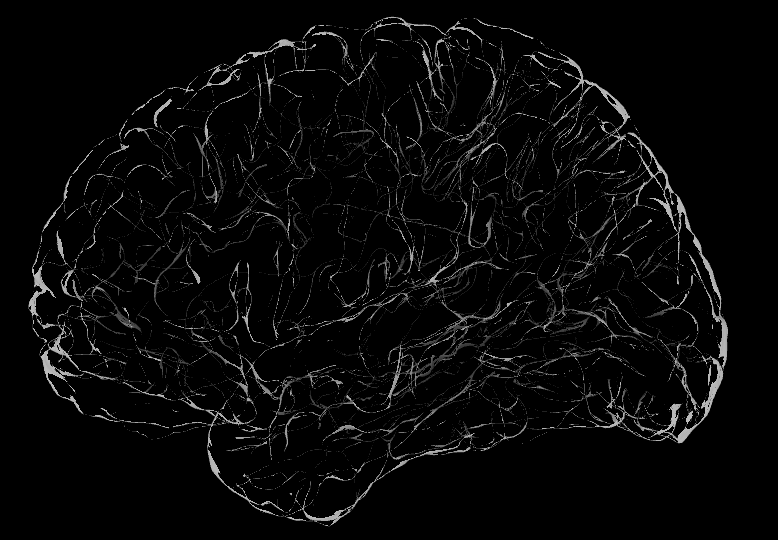
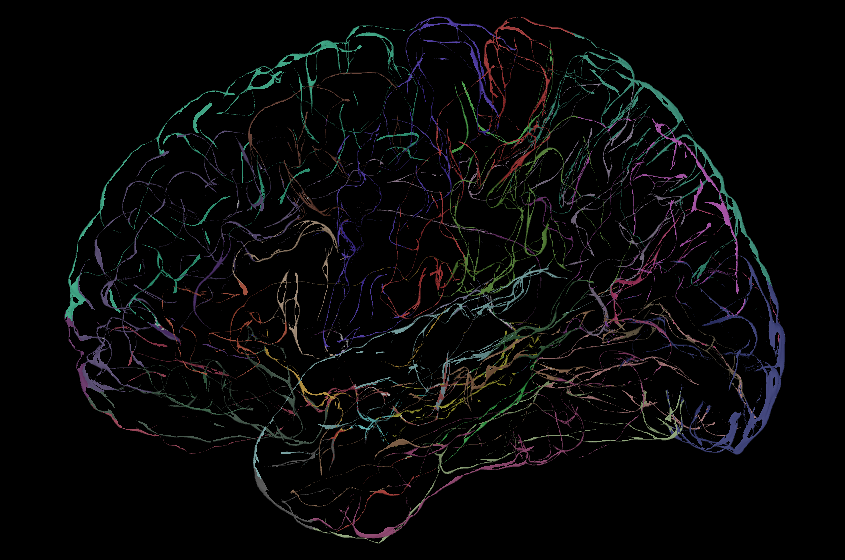
refine changes (css and reshot particle base images

Changed region(s): [[0.0308, 0.0296, 0.9563, 0.9778]]

diff --git a/assets/js/particle.js b/assets/js/particle.js
@@ -118,7 +118,7 @@ r.k._gsDefine("easing.Back",["easing.Ease"],function(){var t,e,n,i,o=r.k.GreenSo
  * 
  * @author: Jack Doyle, jack@greensock.com
  **/
-var F=i;F._autoActivated=[f,p,o,a,E,s,l,P,L,R,C,O,I,D,N,z,k]},function(t,e){t.exports="// @author brunoimbrizi / http://brunoimbrizi.com\n\nprecision highp float;\n#define GLSLIFY 1\n\nuniform sampler2D uTexture;\n\nvarying vec2 vPUv;\nvarying vec2 vUv;\n\nvoid main() {\n\tvec4 color = vec4(0.0);\n\tvec2 uv = vUv;\n\tvec2 puv = vPUv;\n\n\t// pixel color\n\tvec4 colA = texture2D(uTexture, puv);\n\n\t// greyscale\n\tfloat grey = colA.r * 0.21 + colA.g * 0.71 + colA.b * 0.07;\n\tvec4 colB = vec4(grey, grey, grey, 1.0);\n\n\t// circle\n\tfloat border = 0.3;\n\tfloat radius = 0.5;\n\tfloat dist = radius - distance(uv, vec2(0.5));\n\tfloat t = smoothstep(0.0, border, dist);\n\n\t// final color\n\tcolor = colB;\n\tcolor.a = t;\n\n\tgl_FragColor = color;\n}"},function(t,e){t.exports="// @author brunoimbrizi / http://brunoimbrizi.com\n\nprecision highp float;\n#define GLSLIFY 1\n\nattribute float pindex;\nattribute vec3 position;\nattribute vec3 offset;\nattribute vec2 uv;\nattribute float angle;\n\nuniform mat4 modelViewMatrix;\nuniform mat4 projectionMatrix;\n\nuniform float uTime;\nuniform float uRandom;\nuniform float uDepth;\nuniform float uSize;\nuniform vec2 uTextureSize;\nuniform sampler2D uTexture;\nuniform sampler2D uTouch;\n\nvarying vec2 vPUv;\nvarying vec2 vUv;\n\n//\n// Description : Array and textureless GLSL 2D simplex noise function.\n//      Author : Ian McEwan, Ashima Arts.\n//  Maintainer : ijm\n//     Lastmod : 20110822 (ijm)\n//     License : Copyright (C) 2011 Ashima Arts. All rights reserved.\n//               Distributed under the MIT License. See LICENSE file.\n//               https://github.com/ashima/webgl-noise\n//\n\nvec3 mod289_1_0(vec3 x) {\n  return x - floor(x * (1.0 / 289.0)) * 289.0;\n}\n\nvec2 mod289_1_0(vec2 x) {\n  return x - floor(x * (1.0 / 289.0)) * 289.0;\n}\n\nvec3 permute_1_1(vec3 x) {\n  return mod289_1_0(((x*34.0)+1.0)*x);\n}\n\nfloat snoise_1_2(vec2 v)\n  {\n  const vec4 C = vec4(0.211324865405187,  // (3.0-sqrt(3.0))/6.0\n                      0.366025403784439,  // 0.5*(sqrt(3.0)-1.0)\n                     -0.577350269189626,  // -1.0 + 2.0 * C.x\n                      0.024390243902439); // 1.0 / 41.0\n// First corner\n  vec2 i  = floor(v + dot(v, C.yy) );\n  vec2 x0 = v -   i + dot(i, C.xx);\n\n// Other corners\n  vec2 i1;\n  //i1.x = step( x0.y, x0.x ); // x0.x > x0.y ? 1.0 : 0.0\n  //i1.y = 1.0 - i1.x;\n  i1 = (x0.x > x0.y) ? vec2(1.0, 0.0) : vec2(0.0, 1.0);\n  // x0 = x0 - 0.0 + 0.0 * C.xx ;\n  // x1 = x0 - i1 + 1.0 * C.xx ;\n  // x2 = x0 - 1.0 + 2.0 * C.xx ;\n  vec4 x12 = x0.xyxy + C.xxzz;\n  x12.xy -= i1;\n\n// Permutations\n  i = mod289_1_0(i); // Avoid truncation effects in permutation\n  vec3 p = permute_1_1( permute_1_1( i.y + vec3(0.0, i1.y, 1.0 ))\n    + i.x + vec3(0.0, i1.x, 1.0 ));\n\n  vec3 m = max(0.5 - vec3(dot(x0,x0), dot(x12.xy,x12.xy), dot(x12.zw,x12.zw)), 0.0);\n  m = m*m ;\n  m = m*m ;\n\n// Gradients: 41 points uniformly over a line, mapped onto a diamond.\n// The ring size 17*17 = 289 is close to a multiple of 41 (41*7 = 287)\n\n  vec3 x = 2.0 * fract(p * C.www) - 1.0;\n  vec3 h = abs(x) - 0.5;\n  vec3 ox = floor(x + 0.5);\n  vec3 a0 = x - ox;\n\n// Normalise gradients implicitly by scaling m\n// Approximation of: m *= inversesqrt( a0*a0 + h*h );\n  m *= 1.79284291400159 - 0.85373472095314 * ( a0*a0 + h*h );\n\n// Compute final noise value at P\n  vec3 g;\n  g.x  = a0.x  * x0.x  + h.x  * x0.y;\n  g.yz = a0.yz * x12.xz + h.yz * x12.yw;\n  return 130.0 * dot(m, g);\n}\n\n\n\n\nfloat random(float n) {\n\treturn fract(sin(n) * 43758.5453123);\n}\n\nvoid main() {\n\tvUv = uv;\n\n\t// particle uv\n\tvec2 puv = offset.xy / uTextureSize;\n\tvPUv = puv;\n\n\t// pixel color\n\tvec4 colA = texture2D(uTexture, puv);\n\tfloat grey = colA.r * 0.21 + colA.g * 0.71 + colA.b * 0.07;\n\n\t// displacement\n\tvec3 displaced = offset;\n\t// randomise\n\tdisplaced.xy += vec2(random(pindex) - 0.5, random(offset.x + pindex) - 0.5) * uRandom;\n\tfloat rndz = (random(pindex) + snoise_1_2(vec2(pindex * 0.1, uTime * 0.1)));\n\tdisplaced.z += rndz * (random(pindex) * 2.0 * uDepth);\n\t// center\n\tdisplaced.xy -= uTextureSize * 0.5;\n\n\t// touch\n\tfloat t = texture2D(uTouch, puv).r;\n\tdisplaced.z += t * 20.0 * rndz;\n\tdisplaced.x += cos(angle) * t * 20.0 * rndz;\n\tdisplaced.y += sin(angle) * t * 20.0 * rndz;\n\n\t// particle size\n\tfloat psize = (snoise_1_2(vec2(uTime, pindex) * 0.5) + 2.0);\n\tpsize *= max(grey, 0.2);\n\tpsize *= uSize;\n\n\t// final position\n\tvec4 mvPosition = modelViewMatrix * vec4(displaced, 1.0);\n\tmvPosition.xyz += position * psize;\n\tvec4 finalPosition = projectionMatrix * mvPosition;\n\n\tgl_Position = finalPosition;\n}\n"},function(t,e,n){"use strict";Object.defineProperty(e,"__esModule",{value:!0}),e.easeInOutSine=e.easeOutSine=e.easeInSine=e.easeInOutQuart=e.easeInOutQuad=e.easeOutQuad=e.easeInQuad=void 0;e.easeInQuad=function(t,e,n,r){return n*(t/=r)*t+e};e.easeOutQuad=function(t,e,n,r){return-n*(t/=r)*(t-2)+e};e.easeInOutQuad=function(t,e,n,r){return(t/=r/2)<1?n/2*t*t+e:-n/2*(--t*(t-2)-1)+e};e.easeInOutQuart=function(t,e,n,r){return(t/=r/2)<1?n/2*t*t*t*t+e:-n/2*((t-=2)*t*t*t-2)+e};e.easeInSine=function(t,e,n,r){return-n*Math.cos(t/r*(Math.PI/2))+n+e};e.easeOutSine=function(t,e,n,r){return n*Math.sin(t/r*(Math.PI/2))+e};e.easeInOutSine=function(t,e,n,r){return-n/2*(Math.cos(Math.PI*t/r)-1)+e}},function(t,e,n){"use strict";Object.defineProperty(e,"__esModule",{value:!0}),e.default=void 0;var r=function(t){if(t&&t.__esModule)return t;var e={};if(null!=t)for(var n in t)if(Object.prototype.hasOwnProperty.call(t,n)){var r=Object.defineProperty&&Object.getOwnPropertyDescriptor?Object.getOwnPropertyDescriptor(t,n):{};r.get||r.set?Object.defineProperty(e,n,r):e[n]=t[n]}return e.default=t,e}(n(43)),i=n(131);function o(t,e){for(var n=0;n<e.length;n++){var r=e[n];r.enumerable=r.enumerable||!1,r.configurable=!0,"value"in r&&(r.writable=!0),Object.defineProperty(t,r.key,r)}}var a=function(){function t(e){!function(t,e){if(!(t instanceof e))throw new TypeError("Cannot call a class as a function")}(this,t),this.parent=e,this.size=64,this.maxAge=120,this.radius=.15,this.trail=[],this.initTexture()}return function(t,e,n){e&&o(t.prototype,e),n&&o(t,n)}(t,[{key:"initTexture",value:function(){this.canvas=document.createElement("canvas"),this.canvas.width=this.canvas.height=this.size,this.ctx=this.canvas.getContext("2d"),this.ctx.fillStyle="black",this.ctx.fillRect(0,0,this.canvas.width,this.canvas.height),this.texture=new r.Texture(this.canvas),this.canvas.id="touchTexture",this.canvas.style.width=this.canvas.style.height="".concat(this.canvas.width,"px")}},{key:"update",value:function(t){var e=this;this.clear(),this.trail.forEach(function(t,n){t.age++,t.age>e.maxAge&&e.trail.splice(n,1)}),this.trail.forEach(function(t,n){e.drawTouch(t)}),this.texture.needsUpdate=!0}},{key:"clear",value:function(){this.ctx.fillStyle="black",this.ctx.fillRect(0,0,this.canvas.width,this.canvas.height)}},{key:"addTouch",value:function(t){var e=0,n=this.trail[this.trail.length-1];if(n){var r=n.x-t.x,i=n.y-t.y,o=r*r+i*i;e=Math.min(1e4*o,1)}this.trail.push({x:t.x,y:t.y,age:0,force:e})}},{key:"drawTouch",value:function(t){var e={x:t.x*this.size,y:(1-t.y)*this.size},n=1;n=t.age<.3*this.maxAge?(0,i.easeOutSine)(t.age/(.3*this.maxAge),0,1,1):(0,i.easeOutSine)(1-(t.age-.3*this.maxAge)/(.7*this.maxAge),0,1,1),n*=t.force;var r=this.size*this.radius*n,o=this.ctx.createRadialGradient(e.x,e.y,.25*r,e.x,e.y,r);o.addColorStop(0,"rgba(255, 255, 255, 0.2)"),o.addColorStop(1,"rgba(0, 0, 0, 0.0)"),this.ctx.beginPath(),this.ctx.fillStyle=o,this.ctx.arc(e.x,e.y,r,0,2*Math.PI),this.ctx.fill()}}]),t}();e.default=a},function(t,e,n){"use strict";Object.defineProperty(e,"__esModule",{value:!0}),e.default=void 0;var r=function(t){if(t&&t.__esModule)return t;var e={};if(null!=t)for(var n in t)if(Object.prototype.hasOwnProperty.call(t,n)){var r=Object.defineProperty&&Object.getOwnPropertyDescriptor?Object.getOwnPropertyDescriptor(t,n):{};r.get||r.set?Object.defineProperty(e,n,r):e[n]=t[n]}return e.default=t,e}(n(43)),i=function(t){return t&&t.__esModule?t:{default:t}}(n(132));function o(t,e){for(var n=0;n<e.length;n++){var r=e[n];r.enumerable=r.enumerable||!1,r.configurable=!0,"value"in r&&(r.writable=!0),Object.defineProperty(t,r.key,r)}}var a=n(92),s=function(){function t(e){!function(t,e){if(!(t instanceof e))throw new TypeError("Cannot call a class as a function")}(this,t),this.webgl=e,this.container=new r.Object3D}return function(t,e,n){e&&o(t.prototype,e),n&&o(t,n)}(t,[{key:"init",value:function(t,e){var n=this;(new r.TextureLoader).load(t,function(t){t?(n.texture=t,n.texture.minFilter=r.LinearFilter,n.texture.magFilter=r.LinearFilter,n.texture.format=r.RGBFormat,n.width=t.image.width,n.height=t.image.height,n.initPoints(!0),n.initHitArea(),n.initTouch(),n.resize(),n.show()):"function"==typeof e&&e()},void 0,function(){"function"==typeof e&&e()})}},{key:"initPoints",value:function(t){this.numPoints=this.width*this.height;var e,i=this.numPoints,o=0;if(t){i=0,o=34;var s=this.texture.image,c=document.createElement("canvas"),u=c.getContext("2d");c.width=this.width,c.height=this.height,u.scale(1,-1),u.drawImage(s,0,0,this.width,-1*this.height);var h=u.getImageData(0,0,c.width,c.height);e=Float32Array.from(h.data);for(var l=0;l<this.numPoints;l++)e[4*l+0]>o&&i++}var f={uTime:{value:0},uRandom:{value:1},uDepth:{value:10},uSize:{value:0},uTextureSize:{value:new r.Vector2(this.width,this.height)},uTexture:{value:this.texture},uTouch:{value:null}},p=new r.RawShaderMaterial({uniforms:f,vertexShader:a(n(130)),fragmentShader:a(n(129)),depthTest:!1,transparent:!0}),d=new r.InstancedBufferGeometry,m=new r.BufferAttribute(new Float32Array(12),3);m.setXYZ(0,-.5,.5,0),m.setXYZ(1,.5,.5,0),m.setXYZ(2,-.5,-.5,0),m.setXYZ(3,.5,-.5,0),d.addAttribute("position",m);var v=new r.BufferAttribute(new Float32Array(8),2);v.setXYZ(0,0,0),v.setXYZ(1,1,0),v.setXYZ(2,0,1),v.setXYZ(3,1,1),d.addAttribute("uv",v),d.setIndex(new r.BufferAttribute(new Uint16Array([0,2,1,2,3,1]),1));for(var g=new Uint16Array(i),y=new Float32Array(3*i),_=new Float32Array(i),x=0,b=0;x<this.numPoints;x++)t&&e[4*x+0]<=o||(y[3*b+0]=x%this.width,y[3*b+1]=Math.floor(x/this.width),g[b]=x,_[b]=Math.random()*Math.PI,b++);d.addAttribute("pindex",new r.InstancedBufferAttribute(g,1,!1)),d.addAttribute("offset",new r.InstancedBufferAttribute(y,3,!1)),d.addAttribute("angle",new r.InstancedBufferAttribute(_,1,!1)),this.object3D=new r.Mesh(d,p),this.container.add(this.object3D)}},{key:"initTouch",value:function(){this.touch||(this.touch=new i.default(this)),this.touch.radius=.5,this.object3D.material.uniforms.uTouch.value=this.touch.texture}},{key:"initHitArea",value:function(){var t=new r.PlaneGeometry(this.width,this.height,1,1),e=new r.MeshBasicMaterial({color:16777215,wireframe:!0,depthTest:!1});e.visible=!1,this.hitArea=new r.Mesh(t,e),this.container.add(this.hitArea)}},{key:"addListeners",value:function(){this.handlerInteractiveMove=this.onInteractiveMove.bind(this),this.webgl.interactive.addListener("interactive-move",this.handlerInteractiveMove),this.webgl.interactive.objects.push(this.hitArea),this.webgl.interactive.enable()}},{key:"removeListeners",value:function(){var t=this;this.webgl.interactive.removeListener("interactive-move",this.handlerInteractiveMove);var e=this.webgl.interactive.objects.findIndex(function(e){return e===t.hitArea});this.webgl.interactive.objects.splice(e,1),this.webgl.interactive.disable()}},{key:"update",value:function(t){if(this.object3D){this.touch&&this.touch.update();var e=this.object3D.material.uniforms;e.uTime.value+=t,e.uRandom.value=10*Math.sin(.62*e.uTime.value),e.uSize.value=1*Math.sin(.16*e.uTime.value)+2}}},{key:"show",value:function(){var t=arguments.length>0&&void 0!==arguments[0]?arguments[0]:1;TweenLite.fromTo(this.object3D.material.uniforms.uSize,t,{value:.5},{value:1.5}),TweenLite.to(this.object3D.material.uniforms.uRandom,t,{value:2}),TweenLite.fromTo(this.object3D.material.uniforms.uDepth,1.5*t,{value:40},{value:4}),this.addListeners()}},{key:"hide",value:function(t){var e=this,n=arguments.length>1&&void 0!==arguments[1]?arguments[1]:.8;return new Promise(function(r,i){e.object3D||r(),TweenLite.to(e.object3D.material.uniforms.uRandom,n,{value:5,onComplete:function(){t&&e.destroy(),r()}}),TweenLite.to(e.object3D.material.uniforms.uDepth,n,{value:-20,ease:Quad.easeIn}),TweenLite.to(e.object3D.material.uniforms.uSize,.8*n,{value:0}),e.removeListeners()})}},{key:"destroy",value:function(){this.object3D&&(this.object3D.parent.remove(this.object3D),this.object3D.geometry.dispose(),this.object3D.material.dispose(),this.object3D=null,this.hitArea&&(this.hitArea.parent.remove(this.hitArea),this.hitArea.geometry.dispose(),this.hitArea.material.dispose(),this.hitArea=null))}},{key:"resize",value:function(){if(this.object3D){var t=this.webgl.fovHeight/this.height;this.object3D.scale.set(t,t,1),this.hitArea.scale.set(t,t,1)}}},{key:"onInteractiveMove",value:function(t){var e=t.intersectionData.uv;this.touch&&this.touch.addTouch(e)}}]),t}();e.default=s},function(t,e,n){"use strict";Object.defineProperty(e,"__esModule",{value:!0}),e.passiveEvent=void 0;var r=!1,i=!1;e.passiveEvent=function(){return!!function(){if(r)return i;r=!0;try{var t=Object.defineProperty({},"passive",{get:function(){i=!0}});window.addEventListener("test",null,t)}catch(t){return i}return window.removeEventListener("test",null,opts),i}()&&{passive:!0}}},function(t,e){var n,r,i=t.exports={};function o(){throw new Error("setTimeout has not been defined")}function a(){throw new Error("clearTimeout has not been defined")}function s(t){if(n===setTimeout)return setTimeout(t,0);if((n===o||!n)&&setTimeout)return n=setTimeout,setTimeout(t,0);try{return n(t,0)}catch(e){try{return n.call(null,t,0)}catch(e){return n.call(this,t,0)}}}!function(){try{n="function"==typeof setTimeout?setTimeout:o}catch(t){n=o}try{r="function"==typeof clearTimeout?clearTimeout:a}catch(t){r=a}}();var c,u=[],h=!1,l=-1;function f(){h&&c&&(h=!1,c.length?u=c.concat(u):l=-1,u.length&&p())}function p(){if(!h){var t=s(f);h=!0;for(var e=u.length;e;){for(c=u,u=[];++l<e;)c&&c[l].run();l=-1,e=u.length}c=null,h=!1,function(t){if(r===clearTimeout)return clearTimeout(t);if((r===a||!r)&&clearTimeout)return r=clearTimeout,clearTimeout(t);try{r(t)}catch(e){try{return r.call(null,t)}catch(e){return r.call(this,t)}}}(t)}}function d(t,e){this.fun=t,this.array=e}function m(){}i.nextTick=function(t){var e=new Array(arguments.length-1);if(arguments.length>1)for(var n=1;n<arguments.length;n++)e[n-1]=arguments[n];u.push(new d(t,e)),1!==u.length||h||s(p)},d.prototype.run=function(){this.fun.apply(null,this.array)},i.title="browser",i.browser=!0,i.env={},i.argv=[],i.version="",i.versions={},i.on=m,i.addListener=m,i.once=m,i.off=m,i.removeListener=m,i.removeAllListeners=m,i.emit=m,i.prependListener=m,i.prependOnceListener=m,i.listeners=function(t){return[]},i.binding=function(t){throw new Error("process.binding is not supported")},i.cwd=function(){return"/"},i.chdir=function(t){throw new Error("process.chdir is not supported")},i.umask=function(){return 0}},function(t,e,n){"use strict";n.r(e),function(t){
+var F=i;F._autoActivated=[f,p,o,a,E,s,l,P,L,R,C,O,I,D,N,z,k]},function(t,e){t.exports="// @author brunoimbrizi / http://brunoimbrizi.com\n\nprecision highp float;\n#define GLSLIFY 1\n\nuniform sampler2D uTexture;\n\nvarying vec2 vPUv;\nvarying vec2 vUv;\n\nvoid main() {\n\tvec4 color = vec4(0.0);\n\tvec2 uv = vUv;\n\tvec2 puv = vPUv;\n\n\t// pixel color\n\tvec4 colA = texture2D(uTexture, puv);\n\n\t// greyscale\n\tfloat grey = colA.r * 0.21 + colA.g * 0.71 + colA.b * 0.07;\n\t// vec4 colB = vec4(grey, grey, grey, 1.0);\n\n\t// circle\n\tfloat border = 0.3;\n\tfloat radius = 0.5;\n\tfloat dist = radius - distance(uv, vec2(0.5));\n\tfloat t = smoothstep(0.0, border, dist);\n\n\t// final color\n\tcolor = colA;\n\tcolor.a = t;\n\n\tgl_FragColor = color;\n}\n"},function(t,e){t.exports="// @author brunoimbrizi / http://brunoimbrizi.com\n\nprecision highp float;\n#define GLSLIFY 1\n\nattribute float pindex;\nattribute vec3 position;\nattribute vec3 offset;\nattribute vec2 uv;\nattribute float angle;\n\nuniform mat4 modelViewMatrix;\nuniform mat4 projectionMatrix;\n\nuniform float uTime;\nuniform float uRandom;\nuniform float uDepth;\nuniform float uSize;\nuniform vec2 uTextureSize;\nuniform sampler2D uTexture;\nuniform sampler2D uTouch;\n\nvarying vec2 vPUv;\nvarying vec2 vUv;\n\n//\n// Description : Array and textureless GLSL 2D simplex noise function.\n//      Author : Ian McEwan, Ashima Arts.\n//  Maintainer : ijm\n//     Lastmod : 20110822 (ijm)\n//     License : Copyright (C) 2011 Ashima Arts. All rights reserved.\n//               Distributed under the MIT License. See LICENSE file.\n//               https://github.com/ashima/webgl-noise\n//\n\nvec3 mod289_1_0(vec3 x) {\n  return x - floor(x * (1.0 / 289.0)) * 289.0;\n}\n\nvec2 mod289_1_0(vec2 x) {\n  return x - floor(x * (1.0 / 289.0)) * 289.0;\n}\n\nvec3 permute_1_1(vec3 x) {\n  return mod289_1_0(((x*34.0)+1.0)*x);\n}\n\nfloat snoise_1_2(vec2 v)\n  {\n  const vec4 C = vec4(0.211324865405187,  // (3.0-sqrt(3.0))/6.0\n                      0.366025403784439,  // 0.5*(sqrt(3.0)-1.0)\n                     -0.577350269189626,  // -1.0 + 2.0 * C.x\n                      0.024390243902439); // 1.0 / 41.0\n// First corner\n  vec2 i  = floor(v + dot(v, C.yy) );\n  vec2 x0 = v -   i + dot(i, C.xx);\n\n// Other corners\n  vec2 i1;\n  //i1.x = step( x0.y, x0.x ); // x0.x > x0.y ? 1.0 : 0.0\n  //i1.y = 1.0 - i1.x;\n  i1 = (x0.x > x0.y) ? vec2(1.0, 0.0) : vec2(0.0, 1.0);\n  // x0 = x0 - 0.0 + 0.0 * C.xx ;\n  // x1 = x0 - i1 + 1.0 * C.xx ;\n  // x2 = x0 - 1.0 + 2.0 * C.xx ;\n  vec4 x12 = x0.xyxy + C.xxzz;\n  x12.xy -= i1;\n\n// Permutations\n  i = mod289_1_0(i); // Avoid truncation effects in permutation\n  vec3 p = permute_1_1( permute_1_1( i.y + vec3(0.0, i1.y, 1.0 ))\n    + i.x + vec3(0.0, i1.x, 1.0 ));\n\n  vec3 m = max(0.5 - vec3(dot(x0,x0), dot(x12.xy,x12.xy), dot(x12.zw,x12.zw)), 0.0);\n  m = m*m ;\n  m = m*m ;\n\n// Gradients: 41 points uniformly over a line, mapped onto a diamond.\n// The ring size 17*17 = 289 is close to a multiple of 41 (41*7 = 287)\n\n  vec3 x = 2.0 * fract(p * C.www) - 1.0;\n  vec3 h = abs(x) - 0.5;\n  vec3 ox = floor(x + 0.5);\n  vec3 a0 = x - ox;\n\n// Normalise gradients implicitly by scaling m\n// Approximation of: m *= inversesqrt( a0*a0 + h*h );\n  m *= 1.79284291400159 - 0.85373472095314 * ( a0*a0 + h*h );\n\n// Compute final noise value at P\n  vec3 g;\n  g.x  = a0.x  * x0.x  + h.x  * x0.y;\n  g.yz = a0.yz * x12.xz + h.yz * x12.yw;\n  return 130.0 * dot(m, g);\n}\n\n\n\n\nfloat random(float n) {\n\treturn fract(sin(n) * 43758.5453123);\n}\n\nvoid main() {\n\tvUv = uv;\n\n\t// particle uv\n\tvec2 puv = offset.xy / uTextureSize;\n\tvPUv = puv;\n\n\t// pixel color\n\tvec4 colA = texture2D(uTexture, puv);\n\tfloat grey = colA.r * 0.21 + colA.g * 0.71 + colA.b * 0.07;\n\n\t// displacement\n\tvec3 displaced = offset;\n\t// randomise\n\tdisplaced.xy += vec2(random(pindex) - 0.5, random(offset.x + pindex) - 0.5) * uRandom;\n\tfloat rndz = (random(pindex) + snoise_1_2(vec2(pindex * 0.1, uTime * 0.1)));\n\tdisplaced.z += rndz * (random(pindex) * 2.0 * uDepth);\n\t// center\n\tdisplaced.xy -= uTextureSize * 0.5;\n\n\t// touch\n\tfloat t = texture2D(uTouch, puv).r;\n\tdisplaced.z += t * 20.0 * rndz;\n\tdisplaced.x += cos(angle) * t * 20.0 * rndz;\n\tdisplaced.y += sin(angle) * t * 20.0 * rndz;\n\n\t// particle size\n\tfloat psize = (snoise_1_2(vec2(uTime, pindex) * 0.5) + 2.0);\n\tpsize *= max(grey, 0.2);\n\tpsize *= uSize;\n\n\t// final position\n\tvec4 mvPosition = modelViewMatrix * vec4(displaced, 1.0);\n\tmvPosition.xyz += position * psize;\n\tvec4 finalPosition = projectionMatrix * mvPosition;\n\n\tgl_Position = finalPosition;\n}\n"},function(t,e,n){"use strict";Object.defineProperty(e,"__esModule",{value:!0}),e.easeInOutSine=e.easeOutSine=e.easeInSine=e.easeInOutQuart=e.easeInOutQuad=e.easeOutQuad=e.easeInQuad=void 0;e.easeInQuad=function(t,e,n,r){return n*(t/=r)*t+e};e.easeOutQuad=function(t,e,n,r){return-n*(t/=r)*(t-2)+e};e.easeInOutQuad=function(t,e,n,r){return(t/=r/2)<1?n/2*t*t+e:-n/2*(--t*(t-2)-1)+e};e.easeInOutQuart=function(t,e,n,r){return(t/=r/2)<1?n/2*t*t*t*t+e:-n/2*((t-=2)*t*t*t-2)+e};e.easeInSine=function(t,e,n,r){return-n*Math.cos(t/r*(Math.PI/2))+n+e};e.easeOutSine=function(t,e,n,r){return n*Math.sin(t/r*(Math.PI/2))+e};e.easeInOutSine=function(t,e,n,r){return-n/2*(Math.cos(Math.PI*t/r)-1)+e}},function(t,e,n){"use strict";Object.defineProperty(e,"__esModule",{value:!0}),e.default=void 0;var r=function(t){if(t&&t.__esModule)return t;var e={};if(null!=t)for(var n in t)if(Object.prototype.hasOwnProperty.call(t,n)){var r=Object.defineProperty&&Object.getOwnPropertyDescriptor?Object.getOwnPropertyDescriptor(t,n):{};r.get||r.set?Object.defineProperty(e,n,r):e[n]=t[n]}return e.default=t,e}(n(43)),i=n(131);function o(t,e){for(var n=0;n<e.length;n++){var r=e[n];r.enumerable=r.enumerable||!1,r.configurable=!0,"value"in r&&(r.writable=!0),Object.defineProperty(t,r.key,r)}}var a=function(){function t(e){!function(t,e){if(!(t instanceof e))throw new TypeError("Cannot call a class as a function")}(this,t),this.parent=e,this.size=64,this.maxAge=120,this.radius=.15,this.trail=[],this.initTexture()}return function(t,e,n){e&&o(t.prototype,e),n&&o(t,n)}(t,[{key:"initTexture",value:function(){this.canvas=document.createElement("canvas"),this.canvas.width=this.canvas.height=this.size,this.ctx=this.canvas.getContext("2d"),this.ctx.fillStyle="black",this.ctx.fillRect(0,0,this.canvas.width,this.canvas.height),this.texture=new r.Texture(this.canvas),this.canvas.id="touchTexture",this.canvas.style.width=this.canvas.style.height="".concat(this.canvas.width,"px")}},{key:"update",value:function(t){var e=this;this.clear(),this.trail.forEach(function(t,n){t.age++,t.age>e.maxAge&&e.trail.splice(n,1)}),this.trail.forEach(function(t,n){e.drawTouch(t)}),this.texture.needsUpdate=!0}},{key:"clear",value:function(){this.ctx.fillStyle="black",this.ctx.fillRect(0,0,this.canvas.width,this.canvas.height)}},{key:"addTouch",value:function(t){var e=0,n=this.trail[this.trail.length-1];if(n){var r=n.x-t.x,i=n.y-t.y,o=r*r+i*i;e=Math.min(1e4*o,1)}this.trail.push({x:t.x,y:t.y,age:0,force:e})}},{key:"drawTouch",value:function(t){var e={x:t.x*this.size,y:(1-t.y)*this.size},n=1;n=t.age<.3*this.maxAge?(0,i.easeOutSine)(t.age/(.3*this.maxAge),0,1,1):(0,i.easeOutSine)(1-(t.age-.3*this.maxAge)/(.7*this.maxAge),0,1,1),n*=t.force;var r=this.size*this.radius*n,o=this.ctx.createRadialGradient(e.x,e.y,.25*r,e.x,e.y,r);o.addColorStop(0,"rgba(255, 255, 255, 0.2)"),o.addColorStop(1,"rgba(0, 0, 0, 0.0)"),this.ctx.beginPath(),this.ctx.fillStyle=o,this.ctx.arc(e.x,e.y,r,0,2*Math.PI),this.ctx.fill()}}]),t}();e.default=a},function(t,e,n){"use strict";Object.defineProperty(e,"__esModule",{value:!0}),e.default=void 0;var r=function(t){if(t&&t.__esModule)return t;var e={};if(null!=t)for(var n in t)if(Object.prototype.hasOwnProperty.call(t,n)){var r=Object.defineProperty&&Object.getOwnPropertyDescriptor?Object.getOwnPropertyDescriptor(t,n):{};r.get||r.set?Object.defineProperty(e,n,r):e[n]=t[n]}return e.default=t,e}(n(43)),i=function(t){return t&&t.__esModule?t:{default:t}}(n(132));function o(t,e){for(var n=0;n<e.length;n++){var r=e[n];r.enumerable=r.enumerable||!1,r.configurable=!0,"value"in r&&(r.writable=!0),Object.defineProperty(t,r.key,r)}}var a=n(92),s=function(){function t(e){!function(t,e){if(!(t instanceof e))throw new TypeError("Cannot call a class as a function")}(this,t),this.webgl=e,this.container=new r.Object3D}return function(t,e,n){e&&o(t.prototype,e),n&&o(t,n)}(t,[{key:"init",value:function(t,e){var n=this;(new r.TextureLoader).load(t,function(t){t?(n.texture=t,n.texture.minFilter=r.LinearFilter,n.texture.magFilter=r.LinearFilter,n.texture.format=r.RGBFormat,n.width=t.image.width,n.height=t.image.height,n.initPoints(!0),n.initHitArea(),n.initTouch(),n.resize(),n.show()):"function"==typeof e&&e()},void 0,function(){"function"==typeof e&&e()})}},{key:"initPoints",value:function(t){this.numPoints=this.width*this.height;var e,i=this.numPoints,o=0;if(t){i=0,o=34;var s=this.texture.image,c=document.createElement("canvas"),u=c.getContext("2d");c.width=this.width,c.height=this.height,u.scale(1,-1),u.drawImage(s,0,0,this.width,-1*this.height);var h=u.getImageData(0,0,c.width,c.height);e=Float32Array.from(h.data);for(var l=0;l<this.numPoints;l++)e[4*l+0]>o&&i++}var f={uTime:{value:0},uRandom:{value:1},uDepth:{value:10},uSize:{value:0},uTextureSize:{value:new r.Vector2(this.width,this.height)},uTexture:{value:this.texture},uTouch:{value:null}},p=new r.RawShaderMaterial({uniforms:f,vertexShader:a(n(130)),fragmentShader:a(n(129)),depthTest:!1,transparent:!0}),d=new r.InstancedBufferGeometry,m=new r.BufferAttribute(new Float32Array(12),3);m.setXYZ(0,-.5,.5,0),m.setXYZ(1,.5,.5,0),m.setXYZ(2,-.5,-.5,0),m.setXYZ(3,.5,-.5,0),d.addAttribute("position",m);var v=new r.BufferAttribute(new Float32Array(8),2);v.setXYZ(0,0,0),v.setXYZ(1,1,0),v.setXYZ(2,0,1),v.setXYZ(3,1,1),d.addAttribute("uv",v),d.setIndex(new r.BufferAttribute(new Uint16Array([0,2,1,2,3,1]),1));for(var g=new Uint16Array(i),y=new Float32Array(3*i),_=new Float32Array(i),x=0,b=0;x<this.numPoints;x++)t&&e[4*x+0]<=o||(y[3*b+0]=x%this.width,y[3*b+1]=Math.floor(x/this.width),g[b]=x,_[b]=Math.random()*Math.PI,b++);d.addAttribute("pindex",new r.InstancedBufferAttribute(g,1,!1)),d.addAttribute("offset",new r.InstancedBufferAttribute(y,3,!1)),d.addAttribute("angle",new r.InstancedBufferAttribute(_,1,!1)),this.object3D=new r.Mesh(d,p),this.container.add(this.object3D)}},{key:"initTouch",value:function(){this.touch||(this.touch=new i.default(this)),this.touch.radius=.5,this.object3D.material.uniforms.uTouch.value=this.touch.texture}},{key:"initHitArea",value:function(){var t=new r.PlaneGeometry(this.width,this.height,1,1),e=new r.MeshBasicMaterial({color:16777215,wireframe:!0,depthTest:!1});e.visible=!1,this.hitArea=new r.Mesh(t,e),this.container.add(this.hitArea)}},{key:"addListeners",value:function(){this.handlerInteractiveMove=this.onInteractiveMove.bind(this),this.webgl.interactive.addListener("interactive-move",this.handlerInteractiveMove),this.webgl.interactive.objects.push(this.hitArea),this.webgl.interactive.enable()}},{key:"removeListeners",value:function(){var t=this;this.webgl.interactive.removeListener("interactive-move",this.handlerInteractiveMove);var e=this.webgl.interactive.objects.findIndex(function(e){return e===t.hitArea});this.webgl.interactive.objects.splice(e,1),this.webgl.interactive.disable()}},{key:"update",value:function(t){if(this.object3D){this.touch&&this.touch.update();var e=this.object3D.material.uniforms;e.uTime.value+=t,e.uRandom.value=10*Math.sin(.62*e.uTime.value),e.uSize.value=1*Math.sin(.16*e.uTime.value)+2}}},{key:"show",value:function(){var t=arguments.length>0&&void 0!==arguments[0]?arguments[0]:1;TweenLite.fromTo(this.object3D.material.uniforms.uSize,t,{value:.5},{value:1.5}),TweenLite.to(this.object3D.material.uniforms.uRandom,t,{value:2}),TweenLite.fromTo(this.object3D.material.uniforms.uDepth,1.5*t,{value:40},{value:4}),this.addListeners()}},{key:"hide",value:function(t){var e=this,n=arguments.length>1&&void 0!==arguments[1]?arguments[1]:.8;return new Promise(function(r,i){e.object3D||r(),TweenLite.to(e.object3D.material.uniforms.uRandom,n,{value:5,onComplete:function(){t&&e.destroy(),r()}}),TweenLite.to(e.object3D.material.uniforms.uDepth,n,{value:-20,ease:Quad.easeIn}),TweenLite.to(e.object3D.material.uniforms.uSize,.8*n,{value:0}),e.removeListeners()})}},{key:"destroy",value:function(){this.object3D&&(this.object3D.parent.remove(this.object3D),this.object3D.geometry.dispose(),this.object3D.material.dispose(),this.object3D=null,this.hitArea&&(this.hitArea.parent.remove(this.hitArea),this.hitArea.geometry.dispose(),this.hitArea.material.dispose(),this.hitArea=null))}},{key:"resize",value:function(){if(this.object3D){var t=this.webgl.fovHeight/this.height;this.object3D.scale.set(t,t,1),this.hitArea.scale.set(t,t,1)}}},{key:"onInteractiveMove",value:function(t){var e=t.intersectionData.uv;this.touch&&this.touch.addTouch(e)}}]),t}();e.default=s},function(t,e,n){"use strict";Object.defineProperty(e,"__esModule",{value:!0}),e.passiveEvent=void 0;var r=!1,i=!1;e.passiveEvent=function(){return!!function(){if(r)return i;r=!0;try{var t=Object.defineProperty({},"passive",{get:function(){i=!0}});window.addEventListener("test",null,t)}catch(t){return i}return window.removeEventListener("test",null,opts),i}()&&{passive:!0}}},function(t,e){var n,r,i=t.exports={};function o(){throw new Error("setTimeout has not been defined")}function a(){throw new Error("clearTimeout has not been defined")}function s(t){if(n===setTimeout)return setTimeout(t,0);if((n===o||!n)&&setTimeout)return n=setTimeout,setTimeout(t,0);try{return n(t,0)}catch(e){try{return n.call(null,t,0)}catch(e){return n.call(this,t,0)}}}!function(){try{n="function"==typeof setTimeout?setTimeout:o}catch(t){n=o}try{r="function"==typeof clearTimeout?clearTimeout:a}catch(t){r=a}}();var c,u=[],h=!1,l=-1;function f(){h&&c&&(h=!1,c.length?u=c.concat(u):l=-1,u.length&&p())}function p(){if(!h){var t=s(f);h=!0;for(var e=u.length;e;){for(c=u,u=[];++l<e;)c&&c[l].run();l=-1,e=u.length}c=null,h=!1,function(t){if(r===clearTimeout)return clearTimeout(t);if((r===a||!r)&&clearTimeout)return r=clearTimeout,clearTimeout(t);try{r(t)}catch(e){try{return r.call(null,t)}catch(e){return r.call(this,t)}}}(t)}}function d(t,e){this.fun=t,this.array=e}function m(){}i.nextTick=function(t){var e=new Array(arguments.length-1);if(arguments.length>1)for(var n=1;n<arguments.length;n++)e[n-1]=arguments[n];u.push(new d(t,e)),1!==u.length||h||s(p)},d.prototype.run=function(){this.fun.apply(null,this.array)},i.title="browser",i.browser=!0,i.env={},i.argv=[],i.version="",i.versions={},i.on=m,i.addListener=m,i.once=m,i.off=m,i.removeListener=m,i.removeAllListeners=m,i.emit=m,i.prependListener=m,i.prependOnceListener=m,i.listeners=function(t){return[]},i.binding=function(t){throw new Error("process.binding is not supported")},i.cwd=function(){return"/"},i.chdir=function(t){throw new Error("process.chdir is not supported")},i.umask=function(){return 0}},function(t,e,n){"use strict";n.r(e),function(t){
 /*! *****************************************************************************
 Copyright (c) Microsoft Corporation. All rights reserved.
 Licensed under the Apache License, Version 2.0 (the "License"); you may not use

diff --git a/_layouts/about.html b/_layouts/about.html
@@ -13,7 +13,7 @@ layout: default
 
         <article>
           {% if page.profile -%}
-          <div class="profile float-{%- if page.profile.align == 'left' -%}left{%- else -%}right{%- endif -%}" style="overflow-y:visible;">
+          <div class="profile float-{%- if page.profile.align == 'left' -%}left{%- else -%}right{%- endif -%}" style="overflow-x:visible;">
             <!--
             {%- if page.profile.image and false %}
               {%- assign profile_image_path = page.profile.image | prepend: 'assets/img/' -%}
@@ -23,7 +23,7 @@ layout: default
               alt=page.profile.image -%}
             {% endif -%}
             -->
-            <div class="particle-container" style="min-width: 600px; position: relative; height: 400px; opacity: 0.4;"></div>
+            <div class="particle-container" style="min-width: 600px; position: relative; height: 400px; opacity: 0.6;"></div>
             {%- if page.profile.address %}
             <div class="address">
               {{ page.profile.address }}

diff --git a/_layouts/default.html b/_layouts/default.html
@@ -10,14 +10,16 @@
   </head>
 
   <!-- Body -->
-  <body class="{% if site.navbar_fixed %}fixed-top-nav{% endif %} {% unless site.footer_fixed %}sticky-bottom-footer{% endunless %}" style="overflow-y:hidden;">
+  <body class="{% if site.navbar_fixed %}fixed-top-nav{% endif %} {% unless site.footer_fixed %}sticky-bottom-footer{% endunless %}">
 
     <!-- Header -->
     {%- include header.html %}
 
     <!-- Content -->
-    <div class="container mt-5">
-      {{ content }}
+    <div style="width:100%; overflow-x:hidden;">
+      <div class="container mt-5">
+        {{ content }}
+      </div>
     </div>
 
     <!-- Footer -->

diff --git a/_layouts/distill.html b/_layouts/distill.html
@@ -52,7 +52,7 @@
     }</script>
   </d-front-matter>
 
-  <body class="{%- if site.navbar_fixed -%}fixed-top-nav{%- endif -%} {%- unless site.footer_fixed -%}sticky-bottom-footer{%- endunless -%}" style="overflow-y:hidden;">
+  <body class="{%- if site.navbar_fixed -%}fixed-top-nav{%- endif -%} {%- unless site.footer_fixed -%}sticky-bottom-footer{%- endunless -%}">
 
     <!-- Header -->
     {%- include header.html %}
